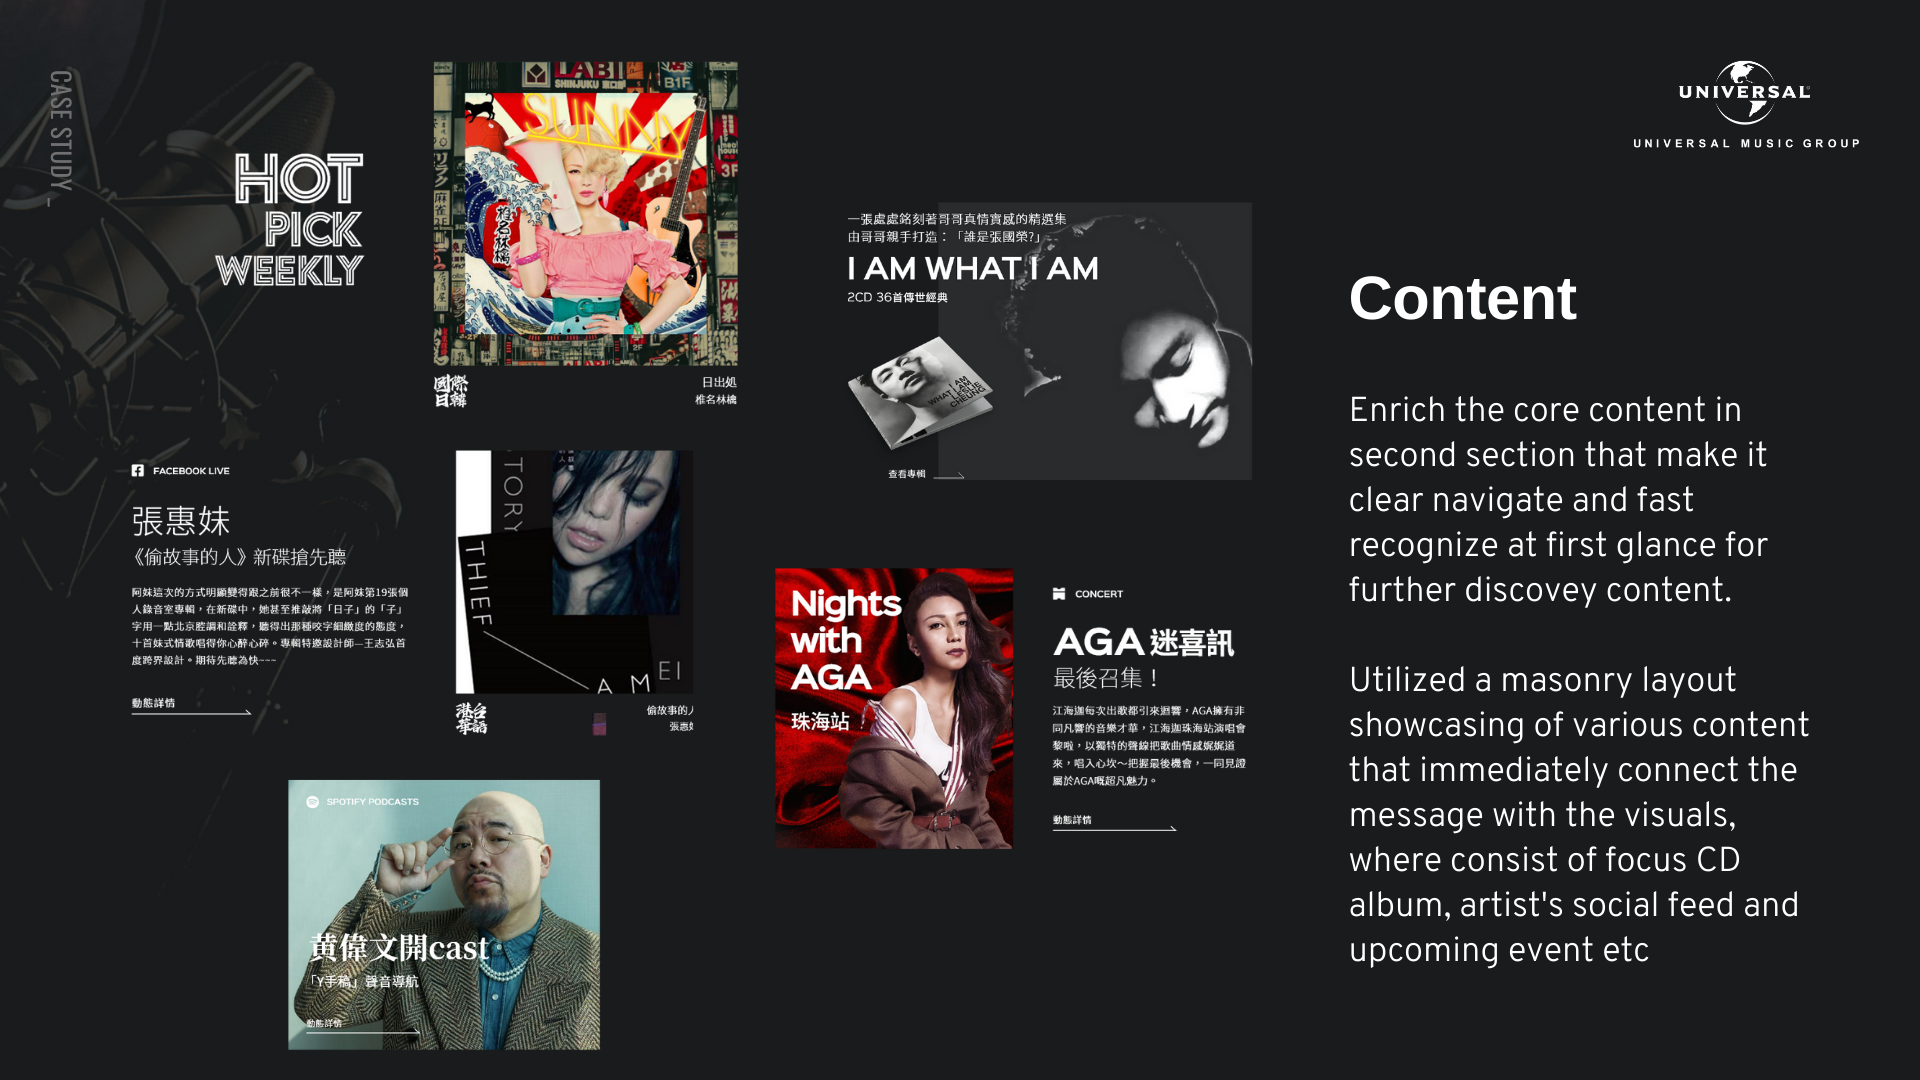
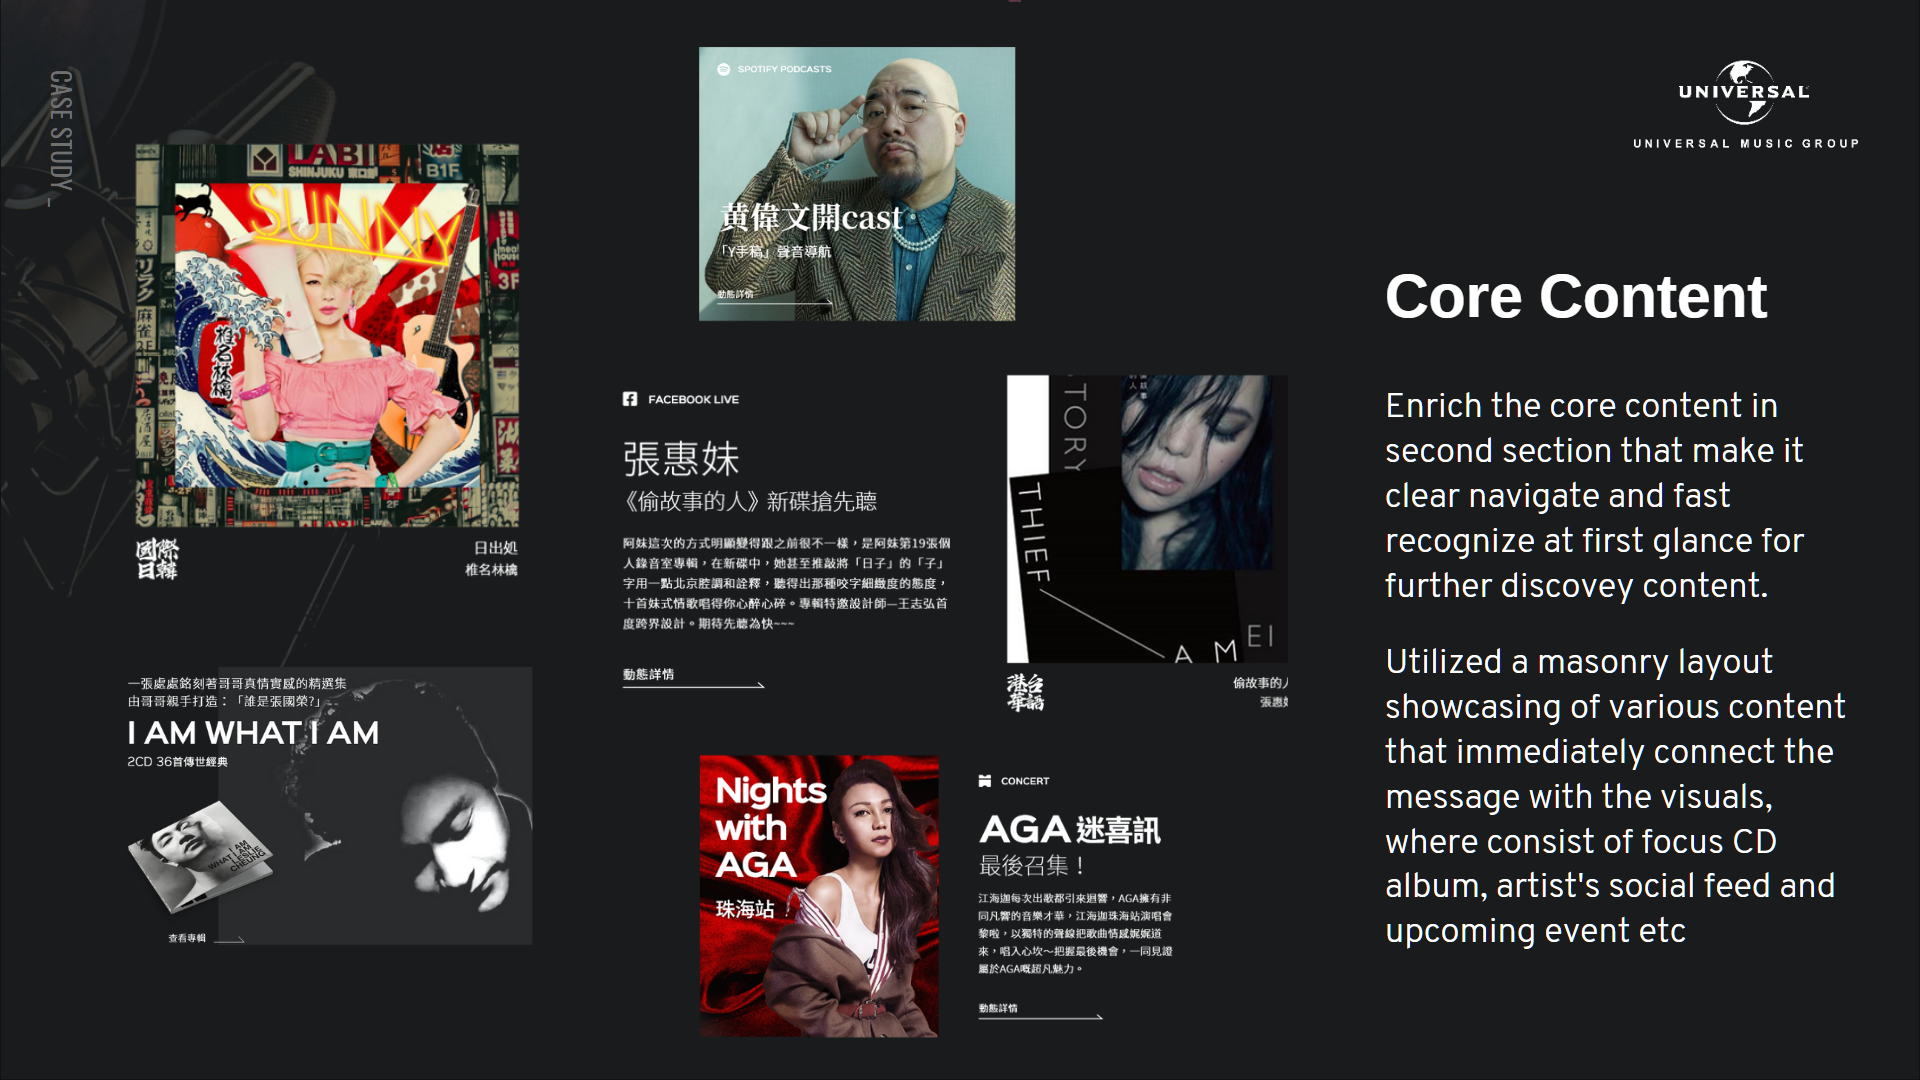
0609_01

diff --git a/project/umg_hk.html b/project/umg_hk.html
@@ -446,7 +446,7 @@
     <div class="observable copy-width spacing-small">
       <p class="observable h2 spacing-sub-title">Implementating <span class="txtpoint umghk-color">Prototype</span></p>
       <p class="observable h1 spacing-title">Delivering the Outcome</p>
-      <p class="observable body spacing-medium" data-scroll-target="true">Throught few round revison UI design <span class="material-icons" style="font-size:15px; top: 2px; padding-right: 2px; padding-left: 2px;">open_in_new</span> <a class="image-popup-fit-width underlined" title="Click on image to enlarge/reduce it"  href="../images/projects/umg_hk/ui_design.png">Detail</a> and A/B testing of content hierarchy issue whether a content placement will be beneficial to user journey. The client team was also invited to participate in the testing. However, we had our final prototype.</p>
+      <p class="observable body spacing-medium" data-scroll-target="true">Throught few round revison UI design <span class="material-icons" style="font-size:15px; top: 2px; padding-right: 2px; padding-left: 2px;">open_in_new</span> <a class="image-popup-fit-width underlined" title="Click on image to enlarge/reduce it"  href="../images/projects/umg_hk/ui_design.png">Detail</a>&nbsp;, and A/B testing of content hierarchy issue whether a content placement will be beneficial to user journey. The client team was also invited to participate in the testing. However, we had our final prototype.</p>
     </div>
 
     <div class="copy-width spacing-small">
@@ -470,11 +470,11 @@
       <p class="observable h1 spacing-sub-title">Conversion-focused on Landing</p>
       <p class="observable body spacing-small">Landing influence users perception of a UMG branding at first sight. Here, Having two design goal was clear: <b>1. Enable the user to stay on-site longer 2. Drive more traffic to Ushop.com.</b></p>
 
-      <p class="observable body spacing-small">As prototyping shown, Redesigned landing experience was progressive disclosure in four section to keep the content structure feeling lighter and crisp design, thereby not overwhelming and confusing the user when landed on, and also it can be a gentle push to the next page in a journey. It purpose to protect the user from getting stuck and keep on browsing, so that lead to a reduce bouncing rate also.</p>
+      <p class="observable body spacing-small">As prototyping shown, Redesigned landing experience was progressive disclosure in four section to keep the content structure feeling lighter and crisp design, thereby not overwhelming and confusing the user when landed on, and also it can be a gentle push to the next page in a journey. It purpose to protect the user from getting stuck and keep on browsing, so that lead to a reduce bouncing rate also. <span class="material-icons" style="font-size:15px; top: 2px; padding-right: 2px; padding-left: 2px;">open_in_new</span> <a class="image-popup-fit-width underlined" title="Click on image to enlarge/reduce it"  href="../images/projects/umg_hk/landing_section.gif">Detail</a></p>
 
-      <p class="observable body spacing-small">We enrich the core content in second section that make it clear navigate and fast recognize at first glance for further discovey content. I utilized a masonry layout showcasing of various content that immediately connect the message with the visuals, where consist of focus CD album, artist's social feed and upcoming event etc connect to music audience directly. Beside, Having a full screen menu also helps in this aspect as it provides a clear overview of the website, easy access to the rest of the content. <span class="material-icons" style="font-size:15px; top: 2px; padding-right: 2px; padding-left: 2px;">open_in_new</span> <a class="image-popup-fit-width underlined" title="Click on image to enlarge/reduce it"  href="../images/projects/umg_hk/ui_grid.png">Detail</a></p>
+      <p class="observable body spacing-small">We enrich the core content in second section that make it clear navigate and fast recognize at first glance for further discovey content. I utilized a masonry layout showcasing of various content that immediately connect the message with the visuals, where consist of focus CD album, artist's social feed and upcoming event etc connect to music audience directly. <span class="material-icons" style="font-size:15px; top: 2px; padding-right: 2px; padding-left: 2px;">open_in_new</span> <a class="image-popup-fit-width underlined" title="Click on image to enlarge/reduce it"  href="../images/projects/umg_hk/ui_grid.png">Detail</a>&nbsp; Beside, Having a full screen menu also helps in this aspect as it provides a clear overview of the website, easy access to the rest of the content. <span class="material-icons" style="font-size:15px; top: 2px; padding-right: 2px; padding-left: 2px;">open_in_new</span> <a class="image-popup-fit-width underlined" title="Click on image to enlarge/reduce it"  href="../images/projects/umg_hk/menu.jpg">Detail</a></p>
 
-      <p class="observable body spacing-small">Affiliate program was second goal of the project. As demo shown, CTA button as round element is easier to draw users attention via highly visable accent blue in way. Once users click on button in the "Album Detail" page that lead them redirect to Ushop.com (Official e-shop) for purchase CD Album though affiliate tracking link.</p>
+      <p class="observable body spacing-small">Affiliate program was second goal of the project. As demo shown, CTA button as round element is easier to draw users attention via highly visable accent blue in way. Once users click on button in the "Album Detail" page that lead them redirect to Ushop.com (Official e-shop) for purchase CD Album though affiliate tracking link. <span class="material-icons" style="font-size:15px; top: 2px; padding-right: 2px; padding-left: 2px;">open_in_new</span> <a class="image-popup-fit-width underlined" title="Click on image to enlarge/reduce it"  href="../images/projects/umg_hk/affiliate.jpg">Detail</a></p>
     </div>
 
 
@@ -499,7 +499,7 @@
       <p class="observable h1 spacing-sub-title">Optimizing the brand online experience</p>
       <p class="observable body spacing-small">Whole new website structure to distribute content more easier to browsing by grid-based hierarchy. It would be useful because it flex to both immediate and future website extending. By designing responsive framework, that across different devices which is rapidly way to reduce users bouncing occurs.</p>
 
-      <p class="observable body spacing-small">As prototyping shown, Entire major visual was match well with the overall vibe in music branding. Utilized dark-gray themed with accent blue of UMG brand color which giving the website a highly contrast and modern look. A various of card-centric components for presenting content and key product such as CD cover and campaign artwork etc. This would have been great with UMG that have the tremendous content images assets. <!--<span class="material-icons" style="font-size:15px; top: 2px; padding-right: 2px; padding-left: 2px;">open_in_new</span> <a class="image-popup-fit-width underlined" title="Click on image to enlarge/reduce it"  href="../images/projects/umg_hk/ui_.png">Detail</a>--></p>
+      <p class="observable body spacing-small">As prototyping shown, Entire major visual was match well with the overall vibe in music branding. Utilized dark-gray themed with accent blue of UMG brand color which giving the website a highly contrast and modern look. A various of card-centric components for presenting content and key product such as CD cover and campaign artwork etc. This would have been great with UMG that have the tremendous content images assets. <span class="material-icons" style="font-size:15px; top: 2px; padding-right: 2px; padding-left: 2px;">open_in_new</span> <a class="image-popup-fit-width underlined" title="Click on image to enlarge/reduce it"  href="../images/projects/umg_hk/ui_element.jpg">Detail</a></p>
 
       <p class="observable body spacing-large">In order to interact well with users, I created audio player widget to the website that getting people to listen to a new single. When hovering, this area will show related CD album. Users can not only hear new release music but also its bring to Ushop.com boost up CD sales intent. Beside, As release center "UMG PRESS" is consist of official news and artist's social content where is interchange navigating between the child page when user pulling down by click-through. <span class="material-icons" style="font-size:15px; top: 2px; padding-right: 2px; padding-left: 2px;">open_in_new</span> <a class="image-popup-fit-width underlined" title="Click on image to enlarge/reduce it"  href="../images/projects/umg_hk/ui_interact.png">Detail</a></p>
     </div>

diff --git a/project/rollcase.html b/project/rollcase.html
@@ -687,14 +687,14 @@
           
           <p class="observable body spacing-small h6 txtpoint">Suitable for real-life scenarios and situation</p>
           <p class="observable body spacing-small highlight-2 rollcase-color">Useful</p>
-          <p class="observable body spacing-small txtpoint"><i class="material-icons rollcase-color" style="font-size:28px; padding-right: 1px; padding-left: 0px;">star star star star </i><i class="material-icons" style="font-size:28px; padding-right: 0px; padding-left: 10px; opacity: 0.3"> star_border</i></p>
+          <p class="observable body spacing-small txtpoint"><i class="material-icons rollcase-color" style="font-size:28px; padding-right: 1px; padding-left: 0px;">star star star star  <span style="opacity: 0.3; color:#fff;">star_border</span></i></p>
 
           <p class="observable body spacing-large">Feedback: "It's pretty handy, cardcase design very intuitive, but card spread button were a bit small.</p>
 
 
           <p class="observable body spacing-small h6 txtpoint">Reduce enviroment impact through roll:Case app</p>
           <p class="observable body spacing-small highlight-2 rollcase-color">Believe</p>
-          <p class="observable body spacing-medium txtpoint"><i class="material-icons rollcase-color" style="font-size:28px; padding-right: 6px; padding-left: 0px;">person person</i><i class="material-icons" style="font-size:28px; padding-right: 6px; padding-left: 7px; opacity: 0.3;">person</i></p>
+          <p class="observable body spacing-medium txtpoint"><i class="material-icons rollcase-color" style="font-size:28px; padding-right: 1vw;">person person <span style="opacity: 0.3; color:#fff;">person</span></i></p>
       </div>
     </div>
 

diff --git a/project/jy_reader.html b/project/jy_reader.html
@@ -605,13 +605,15 @@
           <p class="observable body spacing-sub-title statement jy-color"><span style="font-size:58px">Satisfy</span></p>
 
           <p class="observable body spacing-title txtpoint">
-            <i class="material-icons jy-color" style="font-size:28px; padding-right: 6px; padding-left: 0px;">star star star star</i><i class="material-icons" style="font-size:28px; padding-right: 0px; padding-left: 6px; opacity: 0.3"> star_border</i></p>
+          <i class="material-icons jy-color" style="font-size:28px; padding-right: 6px; padding-left: 0px;">star star star star  <span style="opacity: 0.3; color:#fff;">star_border</span></i></p>
+          
           <p class="observable body spacing-medium">Feedback: "I could keep track my status and history, make me aware use of time and effort when i was reading" </p>
 
           <p class="observable body spacing-small h6"><b>Run on Tablet Reading Platform</b></p>
           <p class="observable body spacing-sub-title statement jy-color"><span style="font-size:58px">Good</span></p>
-          <p class="observable body spacing-title txtpoint">
-            <i class="material-icons jy-color" style="font-size:28px; padding-right: 6px; padding-left: 0px;">star star star star star_half</i></p>
+
+          <p class="observable body spacing-title txtpoint"><i class="material-icons jy-color" style="font-size:28px; padding-right: 6px; padding-left: 0px;">star star star star star_half</i></p>
+
           <p class="observable body spacing-medium">Feedback: "Well-fitted reading novels really, I think I’ll use tablet reading novels further"; "Its Cool, Reads smoothly"</p>
       </div>
     </div>
